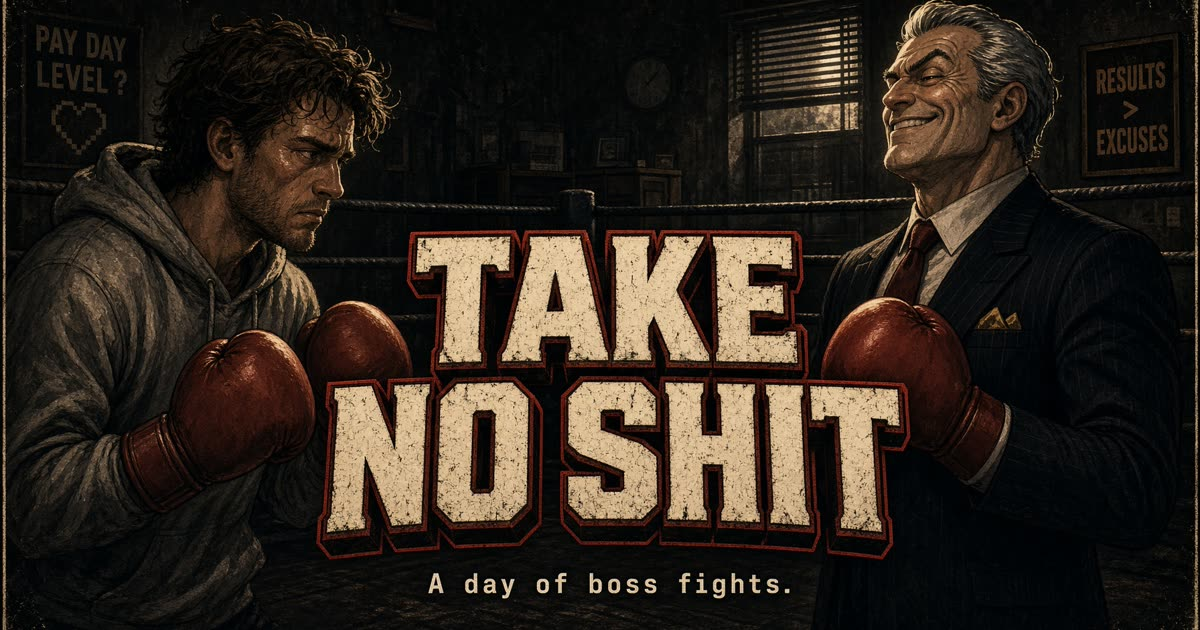
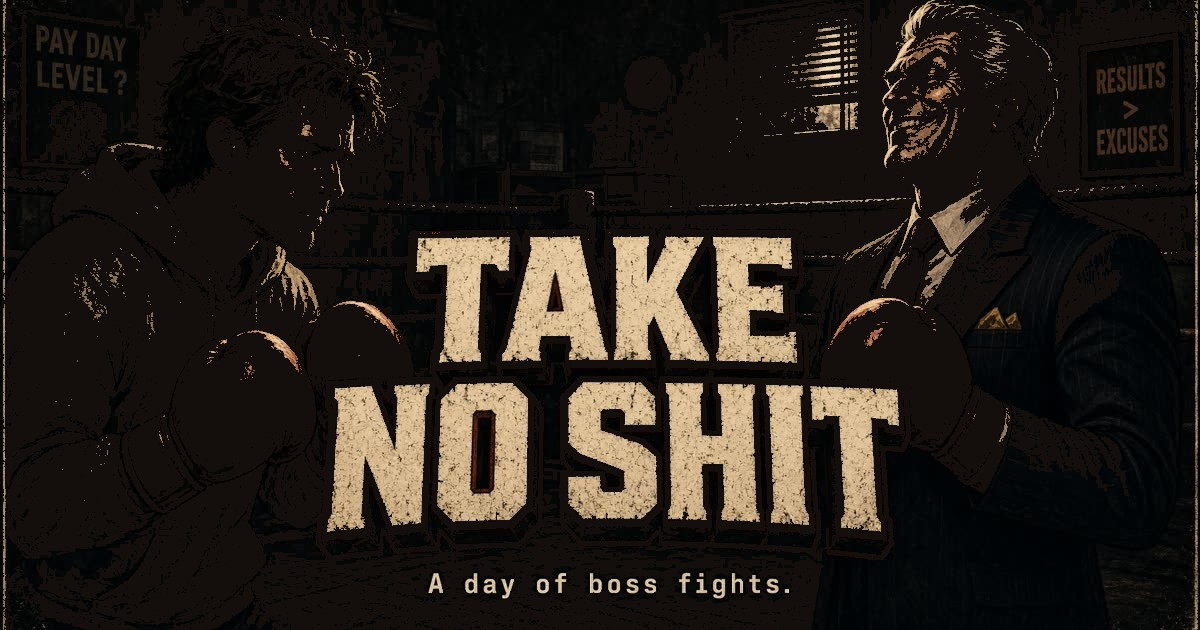
Slouched angry walk, three rear punches including the old uppercut, no pink title

diff --git a/src/game/renderer.ts b/src/game/renderer.ts
@@ -46,8 +46,13 @@ function sprite(
   ctx.restore();
 }
 
-function playerImg(assets: SpriteBook, pose: PlayerPose, slap: boolean) {
-  if (pose === "punch") return slap ? assets.player.slap ?? assets.player.punch : assets.player.punch;
+function playerImg(assets: SpriteBook, pose: PlayerPose, slap: boolean, variant = 0) {
+  if (pose === "punch") {
+    if (slap) return assets.player.slap ?? assets.player.punch;
+    if (variant === 2) return assets.player.punch3 ?? assets.player.punch;
+    if (variant === 1) return assets.player.punch2 ?? assets.player.punch;
+    return assets.player.punch;
+  }
   if (pose === "grab") return assets.player.grab ?? assets.player.punch;
   if (pose === "dodgeL" || pose === "dodgeR") return assets.player.dodge;
   if (pose === "duck") return assets.player.duck;
@@ -102,24 +107,6 @@ export function drawFrame(
   vm: ViewModel,
   assets: SpriteBook,
 ) {
-  if (vm.phase === "title" || vm.phase === "howto") {
-    ctx.fillStyle = "#140e0c";
-    ctx.fillRect(0, 0, w, h);
-    const frames = assets.walk;
-    if (frames.length) {
-      // Face-on walk frame — Richard staring the player down
-      sprite(ctx, frames[0], w * 0.5, h * 1.05, h * 0.78, { alpha: 0.95 });
-    }
-    const g = ctx.createLinearGradient(0, 0, 0, h);
-    g.addColorStop(0, "rgba(20,14,12,0.55)");
-    g.addColorStop(0.35, "rgba(20,14,12,0.15)");
-    g.addColorStop(0.7, "rgba(20,14,12,0.25)");
-    g.addColorStop(1, "rgba(20,14,12,0.85)");
-    ctx.fillStyle = g;
-    ctx.fillRect(0, 0, w, h);
-    return;
-  }
-
   if (vm.phase === "interlude") {
     drawWalk(ctx, w, h, vm, assets);
     return;
@@ -218,9 +205,9 @@ export function drawFrame(
   }
 
   if (vm.phase !== "finisher") {
-    const pimg = playerImg(assets, vm.playerPose, vm.boss.id === "manager" || vm.boss.id === "hr");
+    const pimg = playerImg(assets, vm.playerPose, vm.boss.id === "manager" || vm.boss.id === "hr", vm.punchVariant);
     sprite(ctx, pimg, w * 0.5 + vm.playerX * w * 0.18, h * 0.98, h * 0.46, {
-      flip: vm.playerPose === "dodgeR" || (vm.playerPose === "punch" && vm.punchSide === "L"),
+      flip: vm.playerPose === "dodgeR",
       sy: vm.playerSquash,
       sx: 1 / Math.max(0.7, vm.playerSquash),
     });

diff --git a/src/game/assets.ts b/src/game/assets.ts
@@ -1,5 +1,5 @@
 export type SpriteBook = {
-  player: Record<"idle" | "punch" | "slap" | "dodge" | "duck" | "grab", HTMLImageElement>;
+  player: Record<"idle" | "punch" | "punch2" | "punch3" | "slap" | "dodge" | "duck" | "grab", HTMLImageElement>;
   walk: HTMLImageElement[];
   bosses: Record<string, Record<"idle" | "attack" | "hurt", HTMLImageElement>>;
   proj: Record<string, HTMLImageElement>;
@@ -9,7 +9,7 @@ export type SpriteBook = {
   fatality: Record<string, HTMLImageElement>;
 };
 
-const V = "v=rearview1";
+const V = "v=punkwalk1";
 
 function asset(path: string) {
   const base = (import.meta.env.BASE_URL || "/").replace(/\/$/, "");
@@ -20,6 +20,8 @@ const PATHS = {
   player: {
     idle: `/sprites/player-idle.png?${V}`,
     punch: `/sprites/player-punch.png?${V}`,
+    punch2: `/sprites/player-punch2.png?${V}`,
+    punch3: `/sprites/player-punch3.png?${V}`,
     slap: `/sprites/player-slap.png?${V}`,
     dodge: `/sprites/player-dodge.png?${V}`,
     duck: `/sprites/player-duck.png?${V}`,

diff --git a/src/game/combat.ts b/src/game/combat.ts
@@ -49,6 +49,7 @@ export type HudState = {
   caption: string;
   walkT: number;
   punchSide: "L" | "R" | null;
+  punchVariant: 0 | 1 | 2;
   finisherPlay: boolean;
   endingT: number;
 };
@@ -116,6 +117,7 @@ export class FightSim {
   playerX = 0;
   invuln = 0;
   punchSide: "L" | "R" | null = null;
+  punchVariant: 0 | 1 | 2 = 0;
   starPunch = false;
 
   bossPose: BossPose = "idle";
@@ -385,6 +387,7 @@ export class FightSim {
 
   private tryPunch(side: "L" | "R") {
     this.punchSide = side;
+    this.punchVariant = ((this.punchVariant + 1) % 3) as 0 | 1 | 2;
     this.setPlayer("punch", 0.22);
     this.onSfx("punch");
     if (this.boss.id === "cops") {
@@ -802,6 +805,7 @@ export class FightSim {
       caption: this.caption,
       walkT: this.walkT,
       punchSide: this.punchSide,
+      punchVariant: this.punchVariant,
       finisherPlay: this.phase === "finisher" && Boolean(this.cinematic),
       endingT: this.phase === "ending" ? this.koT : 0,
     };
